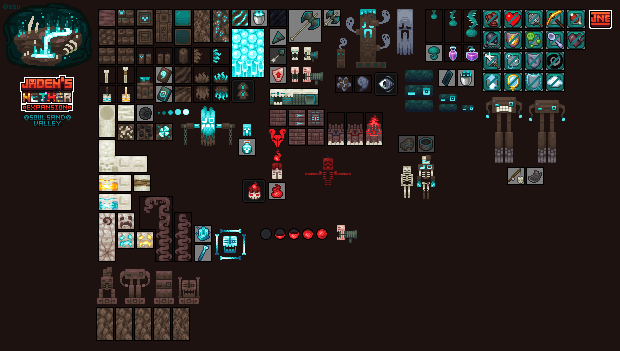
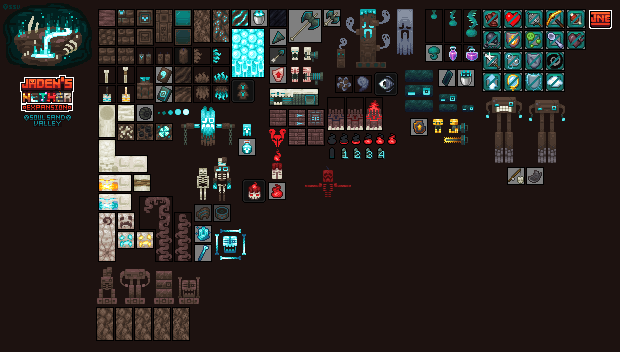
Shotgun Balancing with Temperature Meter
Changes
-Fabric now has Spawn Costs

diff --git a/common/src/main/java/net/jadenxgamer/netherexp/registry/item/custom/ShotgunFistItem.java b/common/src/main/java/net/jadenxgamer/netherexp/registry/item/custom/ShotgunFistItem.java
@@ -14,6 +14,7 @@ import net.minecraft.stats.Stats;
 import net.minecraft.util.Mth;
 import net.minecraft.world.InteractionHand;
 import net.minecraft.world.InteractionResultHolder;
+import net.minecraft.world.entity.Entity;
 import net.minecraft.world.entity.LivingEntity;
 import net.minecraft.world.entity.player.Player;
 import net.minecraft.world.item.*;
@@ -27,8 +28,11 @@ import java.util.List;
 import java.util.function.Predicate;
 
 public class ShotgunFistItem extends ProjectileWeaponItem implements Vanishable {
+    private int cooldown;
+
     public ShotgunFistItem(Properties settings) {
         super(settings);
+        cooldown = 200;
     }
 
     public static int getAmmo(ItemStack stack) {
@@ -41,11 +45,34 @@ public class ShotgunFistItem extends ProjectileWeaponItem implements Vanishable 
         nbt.putInt("Ammo", i);
     }
 
+    public static int getTemperature(ItemStack stack) {
+        CompoundTag nbt = stack.getOrCreateTag();
+        return nbt.getInt("Temperature");
+    }
+
+    public static void setTemperature(ItemStack stack, int i) {
+        CompoundTag nbt = stack.getOrCreateTag();
+        nbt.putInt("Temperature", i);
+    }
+
+    @Override
+    public void inventoryTick(ItemStack stack, Level level, Entity entity, int slot, boolean selected) {
+        if (!level.isClientSide && getTemperature(stack) > 0) {
+            --this.cooldown;
+            if (cooldown <= 0) {
+                setTemperature(stack, getTemperature(stack) - 1);
+                this.cooldown = 200;
+            }
+        }
+        super.inventoryTick(stack, level, entity, slot, selected);
+    }
+
     @Override
     public @NotNull ItemStack finishUsingItem(ItemStack stack, Level level, LivingEntity user) {
         useProjectile(stack, user);
+        int heat = getTemperature(stack);
         setAmmo(stack, getAmmo(stack) + 1);
-        level.playSound(null, user.getX(), user.getY(), user.getZ(), SoundEvents.CROSSBOW_LOADING_END, SoundSource.PLAYERS, 1.0F, 1.0F);
+        level.playSound(null, user.getX(), user.getY(), user.getZ(), SoundEvents.CROSSBOW_LOADING_END, SoundSource.PLAYERS, 1.0F - (0.15f * heat), 1.0F + (0.2f * heat));
         return stack;
     }
 
@@ -92,9 +119,12 @@ public class ShotgunFistItem extends ProjectileWeaponItem implements Vanishable 
             if (!player.getProjectile(stack).isEmpty() || player.getAbilities().instabuild) {
                 useProjectile(stack, player);
                 performShooting(level, player, stack);
-                stack.hurtAndBreak(1, player, (p) -> p.broadcastBreakEvent(player.getUsedItemHand()));
+                if (getTemperature(stack) < 5 && !player.getAbilities().instabuild) {
+                    setTemperature(stack, getTemperature(stack) + 1);
+                }
+                stack.hurtAndBreak(getTemperature(stack), player, (p) -> p.broadcastBreakEvent(player.getUsedItemHand()));
                 level.playSound(null, player.getX(), player.getY(), player.getZ(), JNESoundEvents.SHOTGUN_USE.get(), SoundSource.PLAYERS, 1.0F, 1.0F);
-                player.getCooldowns().addCooldown(this, 30);
+                player.getCooldowns().addCooldown(this, 10);
                 return InteractionResultHolder.success(stack);
             }
         }
@@ -102,36 +132,47 @@ public class ShotgunFistItem extends ProjectileWeaponItem implements Vanishable 
     }
 
     public static void performShooting(Level level, LivingEntity livingEntity, ItemStack stack) {
-        int count = Mth.nextInt(level.random, 8, 16);
         int recoil = EnchantmentHelper.getItemEnchantmentLevel(JNEEnchantments.RECOIL.get(), stack);
+        int heat = getTemperature(stack);
         // Bonuses
-        int rBulletBonus = recoil / 5;
+        int rBulletDistanceBonus = recoil / 5;
         double rPushBonus = (double) recoil / 16;
+        int hBulletDistancePenalty = heat / 8;
+        int hCountPenalty = heat * 3;
+        int hScatterPenalty = heat * 5;
         // Vectors
         Vec3 look = livingEntity.getLookAngle();
         Vec3 pushBack = new Vec3(-look.x, -look.y, -look.z).normalize();
+        int count;
+        if (EnchantmentHelper.getItemEnchantmentLevel(JNEEnchantments.CARTRIDGE.get(), stack) > 0) {
+            count = Mth.nextInt(level.random, 6, 8);
+        }
+        else {
+            count = 16 - hCountPenalty;
+        }
         if (!level.isClientSide) {
             for (int i = 0; i < count; i++) {
                 SoulBullet soulBullet = new SoulBullet(level, livingEntity);
-                soulBullet.shoot(look.x, look.y, look.z, 1.0F + rBulletBonus, 16);
+                soulBullet.shoot(look.x, look.y, look.z, (1.0F + rBulletDistanceBonus) - hBulletDistancePenalty, 16 + hScatterPenalty);
                 level.addFreshEntity(soulBullet);
             }
         }
         double d = 0.3 + rPushBonus;
         livingEntity.push(pushBack.x * d, pushBack.y * d, pushBack.z * d);
+        if (heat == 5) {
+            livingEntity.setSecondsOnFire(2);
+        }
     }
 
     @Override
     public void appendHoverText(ItemStack stack, @Nullable Level level, List<Component> tooltip, TooltipFlag tooltipFlag) {
         if (EnchantmentHelper.getItemEnchantmentLevel(JNEEnchantments.CARTRIDGE.get(), stack) > 0) {
-            if (getAmmo(stack) >= 1) {
-                tooltip.add(Component.translatable("shotgun_fist.ammo").append(CommonComponents.SPACE).append(Component.literal("" + getAmmo(stack))).withStyle(ChatFormatting.DARK_AQUA));
-                tooltip.add((Component.empty()));
-            }
-            else {
-                tooltip.add(Component.translatable("shotgun_fist.ammo").append(CommonComponents.SPACE).append(Component.literal("" + getAmmo(stack))).withStyle(ChatFormatting.RED));
-                tooltip.add((Component.empty()));
-            }
+            tooltip.add(Component.translatable("shotgun_fist.ammo").append(CommonComponents.SPACE).append(Component.literal("" + getAmmo(stack))).withStyle(ChatFormatting.DARK_AQUA));
+            tooltip.add((Component.empty()));
+        }
+        else {
+            tooltip.add(Component.translatable("shotgun_fist.heat").append(CommonComponents.SPACE).append(Component.literal("" + getTemperature(stack))).withStyle(ChatFormatting.RED));
+            tooltip.add((Component.empty()));
         }
     }
 

diff --git a/forge/src/main/java/net/jadenxgamer/netherexp/forge/NetherExpForgeClient.java b/forge/src/main/java/net/jadenxgamer/netherexp/forge/NetherExpForgeClient.java
@@ -1,10 +1,10 @@
 package net.jadenxgamer.netherexp.forge;
 
+import net.jadenxgamer.netherexp.forge.client.ShotgunTemperatureOverlayForge;
 import net.jadenxgamer.netherexp.registry.block.JNEBlockEntityType;
 import net.jadenxgamer.netherexp.registry.block.entity.client.JNEBrushableBlockRenderer;
 import net.jadenxgamer.netherexp.registry.entity.JNEEntityType;
 import net.jadenxgamer.netherexp.registry.entity.client.*;
-import net.jadenxgamer.netherexp.registry.fluid.JNEFluids;
 import net.jadenxgamer.netherexp.registry.item.JNEItems;
 import net.jadenxgamer.netherexp.registry.item.custom.AntidoteItem;
 import net.jadenxgamer.netherexp.registry.particle.JNEParticleTypes;
@@ -12,14 +12,13 @@ import net.jadenxgamer.netherexp.registry.particle.custom.*;
 import net.minecraft.client.particle.FlameParticle;
 import net.minecraft.client.particle.HugeExplosionParticle;
 import net.minecraft.client.particle.SpellParticle;
-import net.minecraft.client.renderer.ItemBlockRenderTypes;
-import net.minecraft.client.renderer.RenderType;
 import net.minecraft.client.renderer.blockentity.BlockEntityRenderers;
 import net.minecraft.client.renderer.entity.EntityRenderers;
 import net.minecraft.client.renderer.entity.NoopRenderer;
 import net.minecraft.client.renderer.entity.ThrownItemRenderer;
 import net.minecraftforge.client.event.EntityRenderersEvent;
 import net.minecraftforge.client.event.RegisterColorHandlersEvent;
+import net.minecraftforge.client.event.RegisterGuiOverlaysEvent;
 import net.minecraftforge.client.event.RegisterParticleProvidersEvent;
 import net.minecraftforge.eventbus.api.IEventBus;
 import net.minecraftforge.fml.event.lifecycle.FMLClientSetupEvent;
@@ -34,6 +33,10 @@ public class NetherExpForgeClient {
         eventBus.addListener(NetherExpForgeClient::renderParticles);
         eventBus.addListener(NetherExpForgeClient::itemTints);
         eventBus.addListener(NetherExpForgeClient::registerLayer);
+    }
+
+    public static void registerGuiOverlays(RegisterGuiOverlaysEvent event) {
+        event.registerAboveAll("shotgun_temprature", ShotgunTemperatureOverlayForge.HUD);
     }
 
     public static void onClientSetup(FMLClientSetupEvent event) {

diff --git a/fabric/src/main/java/net/jadenxgamer/netherexp/fabric/client/ShotgunTemperatureOverlayFabric.java b/fabric/src/main/java/net/jadenxgamer/netherexp/fabric/client/ShotgunTemperatureOverlayFabric.java
@@ -1,0 +1,38 @@
+package net.jadenxgamer.netherexp.fabric.client;
+
+import net.fabricmc.fabric.api.client.rendering.v1.HudRenderCallback;
+import net.jadenxgamer.netherexp.NetherExp;
+import net.jadenxgamer.netherexp.registry.enchantment.JNEEnchantments;
+import net.jadenxgamer.netherexp.registry.item.JNEItems;
+import net.jadenxgamer.netherexp.registry.item.custom.ShotgunFistItem;
+import net.minecraft.client.Minecraft;
+import net.minecraft.client.gui.GuiGraphics;
+import net.minecraft.resources.ResourceLocation;
+import net.minecraft.world.entity.Entity;
+import net.minecraft.world.entity.player.Player;
+import net.minecraft.world.item.ItemStack;
+import net.minecraft.world.item.enchantment.EnchantmentHelper;
+
+public class ShotgunTemperatureOverlayFabric implements HudRenderCallback {
+    private final Minecraft minecraft = Minecraft.getInstance();
+
+    @Override
+    public void onHudRender(GuiGraphics guiGraphics, float tickDelta) {
+        int width = minecraft.getWindow().getGuiScaledWidth();
+        int height = minecraft.getWindow().getGuiScaledHeight();
+        Entity entity = minecraft.cameraEntity;
+        if (entity instanceof Player player) {
+            if (!player.getAbilities().instabuild && !player.isSpectator()) {
+                ItemStack stack = player.getMainHandItem();
+                if (stack.is(JNEItems.SHOTGUN_FIST.get()) && EnchantmentHelper.getItemEnchantmentLevel(JNEEnchantments.CARTRIDGE.get(), stack) > 0) {
+                    int ammo = ShotgunFistItem.getAmmo(stack);
+                    guiGraphics.blit(new ResourceLocation(NetherExp.MOD_ID, "textures/gui/shotgun_temperature.png"), (width / 2 -6), height - 50, ammo * 12, 12, 12, 12);
+                }
+                else if (stack.is(JNEItems.SHOTGUN_FIST.get())) {
+                    int temperature = ShotgunFistItem.getTemperature(stack);
+                    guiGraphics.blit(new ResourceLocation(NetherExp.MOD_ID, "textures/gui/shotgun_temperature.png"), (width / 2 -6), height - 50, temperature * 12, 0, 12, 12);
+                }
+            }
+        }
+    }
+}

diff --git a/fabric/src/main/java/net/jadenxgamer/netherexp/fabric/worldgen/EntityGeneration.java b/fabric/src/main/java/net/jadenxgamer/netherexp/fabric/worldgen/EntityGeneration.java
@@ -2,7 +2,10 @@ package net.jadenxgamer.netherexp.fabric.worldgen;
 
 import net.fabricmc.fabric.api.biome.v1.BiomeModifications;
 import net.fabricmc.fabric.api.biome.v1.BiomeSelectors;
+import net.fabricmc.fabric.api.biome.v1.ModificationPhase;
+import net.jadenxgamer.netherexp.NetherExp;
 import net.jadenxgamer.netherexp.registry.entity.JNEEntityType;
+import net.minecraft.resources.ResourceLocation;
 import net.minecraft.world.entity.MobCategory;
 import net.minecraft.world.entity.SpawnPlacements;
 import net.minecraft.world.entity.monster.Monster;
@@ -11,10 +14,16 @@ import net.minecraft.world.level.levelgen.Heightmap;
 
 public class EntityGeneration {
     public static void generateEntities() {
+        BiomeModifications.create(new ResourceLocation(NetherExp.MOD_ID, "spawn_costs"))
+                .add(ModificationPhase.ADDITIONS, BiomeSelectors.includeByKey(Biomes.SOUL_SAND_VALLEY),
+                (biomeSelectionContext, biomeModificationContext) -> biomeModificationContext.getSpawnSettings().setSpawnCost(JNEEntityType.VESSEL.get(), 0.15, 0.7))
+                .add(ModificationPhase.ADDITIONS, BiomeSelectors.includeByKey(Biomes.SOUL_SAND_VALLEY),
+                (biomeSelectionContext, biomeModificationContext) -> biomeModificationContext.getSpawnSettings().setSpawnCost(JNEEntityType.APPARITION.get(), 0.15, 0.7));
+
         BiomeModifications.addSpawn(BiomeSelectors.includeByKey(Biomes.SOUL_SAND_VALLEY), MobCategory.MONSTER,
-                JNEEntityType.VESSEL.get(), 8, 1, 1);
+                JNEEntityType.VESSEL.get(), 3, 1, 1);
         BiomeModifications.addSpawn(BiomeSelectors.includeByKey(Biomes.SOUL_SAND_VALLEY), MobCategory.MONSTER,
-                JNEEntityType.APPARITION.get(), 15, 1, 1);
+                JNEEntityType.APPARITION.get(), 5, 1, 1);
 
         SpawnPlacements.register(JNEEntityType.VESSEL.get(), SpawnPlacements.Type.ON_GROUND,
                 Heightmap.Types.MOTION_BLOCKING_NO_LEAVES, Monster::checkMonsterSpawnRules);

diff --git a/forge/src/main/java/net/jadenxgamer/netherexp/forge/client/ShotgunTemperatureOverlayForge.java b/forge/src/main/java/net/jadenxgamer/netherexp/forge/client/ShotgunTemperatureOverlayForge.java
@@ -1,0 +1,34 @@
+package net.jadenxgamer.netherexp.forge.client;
+
+import net.jadenxgamer.netherexp.NetherExp;
+import net.jadenxgamer.netherexp.registry.enchantment.JNEEnchantments;
+import net.jadenxgamer.netherexp.registry.item.JNEItems;
+import net.jadenxgamer.netherexp.registry.item.custom.ShotgunFistItem;
+import net.minecraft.client.Minecraft;
+import net.minecraft.resources.ResourceLocation;
+import net.minecraft.world.entity.Entity;
+import net.minecraft.world.entity.player.Player;
+import net.minecraft.world.item.ItemStack;
+import net.minecraft.world.item.enchantment.EnchantmentHelper;
+import net.minecraftforge.client.gui.overlay.IGuiOverlay;
+
+public class ShotgunTemperatureOverlayForge {
+    private static final Minecraft minecraft = Minecraft.getInstance();
+
+    public static final IGuiOverlay HUD = ((gui, guiGraphics, partialTick, width, height) -> {
+        Entity entity = minecraft.cameraEntity;
+        if (entity instanceof Player player) {
+            if (!player.getAbilities().instabuild && !player.isSpectator()) {
+                ItemStack stack = player.getMainHandItem();
+                if (stack.is(JNEItems.SHOTGUN_FIST.get()) && EnchantmentHelper.getItemEnchantmentLevel(JNEEnchantments.CARTRIDGE.get(), stack) > 0) {
+                    int ammo = ShotgunFistItem.getAmmo(stack);
+                    guiGraphics.blit(new ResourceLocation(NetherExp.MOD_ID, "textures/gui/shotgun_temperature.png"), (width / 2 -6), height - 50, ammo * 12, 12, 12, 12);
+                }
+                else if (stack.is(JNEItems.SHOTGUN_FIST.get())) {
+                    int temperature = ShotgunFistItem.getTemperature(stack);
+                    guiGraphics.blit(new ResourceLocation(NetherExp.MOD_ID, "textures/gui/shotgun_temperature.png"), (width / 2 -6), height - 50, temperature * 12, 0, 12, 12);
+                }
+            }
+        }
+    });
+}

diff --git a/fabric/src/main/java/net/jadenxgamer/netherexp/fabric/NetherExpFabricClient.java b/fabric/src/main/java/net/jadenxgamer/netherexp/fabric/NetherExpFabricClient.java
@@ -7,7 +7,9 @@ import net.fabricmc.fabric.api.client.particle.v1.ParticleFactoryRegistry;
 import net.fabricmc.fabric.api.client.rendering.v1.ColorProviderRegistry;
 import net.fabricmc.fabric.api.client.rendering.v1.EntityModelLayerRegistry;
 import net.fabricmc.fabric.api.client.rendering.v1.EntityRendererRegistry;
+import net.fabricmc.fabric.api.client.rendering.v1.HudRenderCallback;
 import net.jadenxgamer.netherexp.NetherExpClient;
+import net.jadenxgamer.netherexp.fabric.client.ShotgunTemperatureOverlayFabric;
 import net.jadenxgamer.netherexp.registry.block.JNEBlockEntityType;
 import net.jadenxgamer.netherexp.registry.block.JNEBlocks;
 import net.jadenxgamer.netherexp.registry.block.entity.client.JNEBrushableBlockRenderer;
@@ -29,6 +31,7 @@ public class NetherExpFabricClient implements ClientModInitializer {
     @Override
     public void onInitializeClient() {
         NetherExpClient.init();
+        HudRenderCallback.EVENT.register(new ShotgunTemperatureOverlayFabric());
         
         // BLOCK OPACITY
         BlockRenderLayerMap.INSTANCE.putBlock(JNEBlocks.NETHERITE_GRATE.get(), RenderType.cutout());

diff --git a/common/src/main/java/net/jadenxgamer/netherexp/registry/entity/custom/Vessel.java b/common/src/main/java/net/jadenxgamer/netherexp/registry/entity/custom/Vessel.java
@@ -173,7 +173,7 @@ public class Vessel extends Monster implements RangedAttackMob {
             }
         }
         this.level().playSound(null, this.getX(), this.getY(), this.getZ(), SoundEvents.ZOMBIE_VILLAGER_CURE, SoundSource.NEUTRAL, 1.0f, 1.0f);
-        for(int i = 0; i < 10; ++i) {
+        for(int i = 0; i < 10; i++) {
             this.level().addParticle(JNEParticleTypes.WISP.get(), this.getRandomX(0.5), this.getRandomY(), this.getRandomZ(0.5), 0.0, 0.0, 0.0);
         }
     }

diff --git a/common/src/main/java/net/jadenxgamer/netherexp/registry/block/custom/WhiteAshBlock.java b/common/src/main/java/net/jadenxgamer/netherexp/registry/block/custom/WhiteAshBlock.java
@@ -18,6 +18,7 @@ public class WhiteAshBlock extends SnowLayerBlock {
         return false;
     }
 
+    @Override
     public boolean canSurvive(BlockState blockState, LevelReader levelReader, BlockPos blockPos) {
         BlockState blockState2 = levelReader.getBlockState(blockPos.below());
         if (blockState2.is(JNETags.Blocks.ASH_CANNOT_SURVIVE_ON)) {
